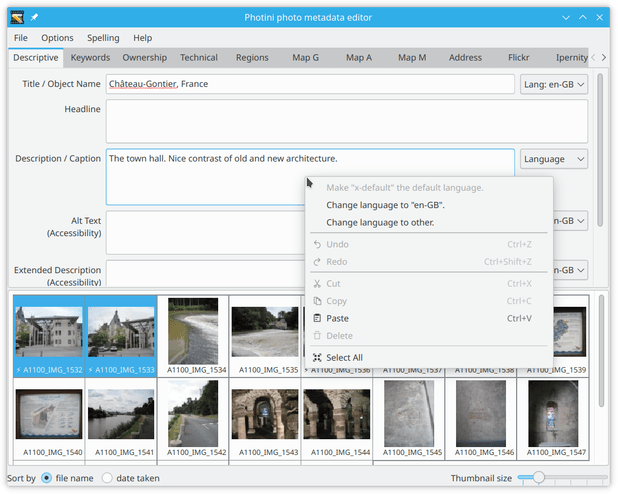
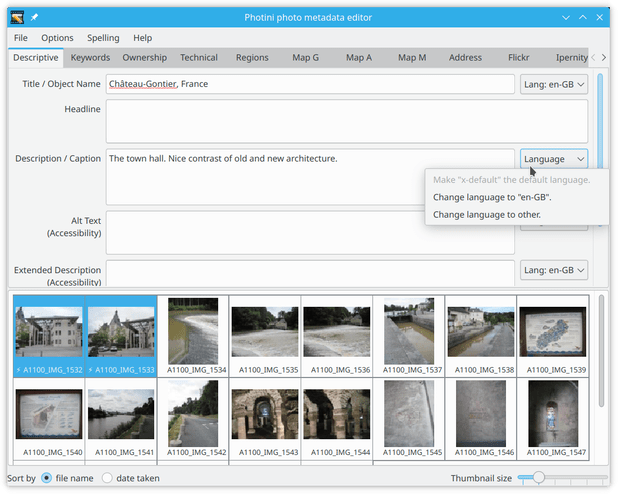
Update "descriptive" tab documentation

Changed region(s): [[0.4612, 0.1518, 1.0, 0.7591], [0.1845, 0.2733, 0.8301, 0.3036], [0.1537, 0.3036, 0.4919, 0.4251]]

diff --git a/src/doc/manual/descriptive_metadata.rst b/src/doc/manual/descriptive_metadata.rst
@@ -1,5 +1,5 @@
 .. This is part of the Photini documentation.
-   Copyright (C)  2012-24  Jim Easterbrook.
+   Copyright (C)  2012-26  Jim Easterbrook.
    See the file ../DOC_LICENSE.txt for copying condidions.
 
 Descriptive metadata
@@ -109,15 +109,36 @@ You can then type the translation in to the text field.
 
 .. image:: ../images/screenshot_033.png
 
-You can change the language of some existing text by right-clicking on it to bring up the context menu.
+You can change the language of some existing text by right-clicking on the language selector drop down to bring up its context menu.
 This has options to change the language to your computer's default or to any other language.
 
 .. image:: ../images/screenshot_036.png
 
-When there is more than one language to choose from you can make one language the default with the right-click context menu.
-Photini shows the default language first in the language drop down selector.
+When there is more than one language you can choose which one is the default with the right-click context menu.
+The default language appears first in the language drop down selector.
 
 When a ``Lang Alt`` data field has multiple values, you can use the drop down selector to select each language in turn before right-clicking on the text to choose one of the values.
+
+Copy and paste
+^^^^^^^^^^^^^^
+
+.. image:: ../images/screenshot_037.png
+
+The usual context menu allows cut / copy /paste / delete of the widget's text.
+Photini can also perform these operations on all the languages in a ``Lang Alt`` data field.
+
+.. image:: ../images/screenshot_038.png
+
+Copy and paste
+--------------
+
+.. image:: ../images/screenshot_039.png
+
+You can copy and paste all of the "descriptive" metadata by right-clicking outside any data field.
+(You can also delete all the data!)
+The cut and copy actions are disabled if any of the data fields has multiple values.
+
+This menu, and the ``Lang Alt`` all languages menu, uses a private clipboard, rather then the shared clipboard used by the usual data field context menu.
 
 More information about the data fields
 --------------------------------------
